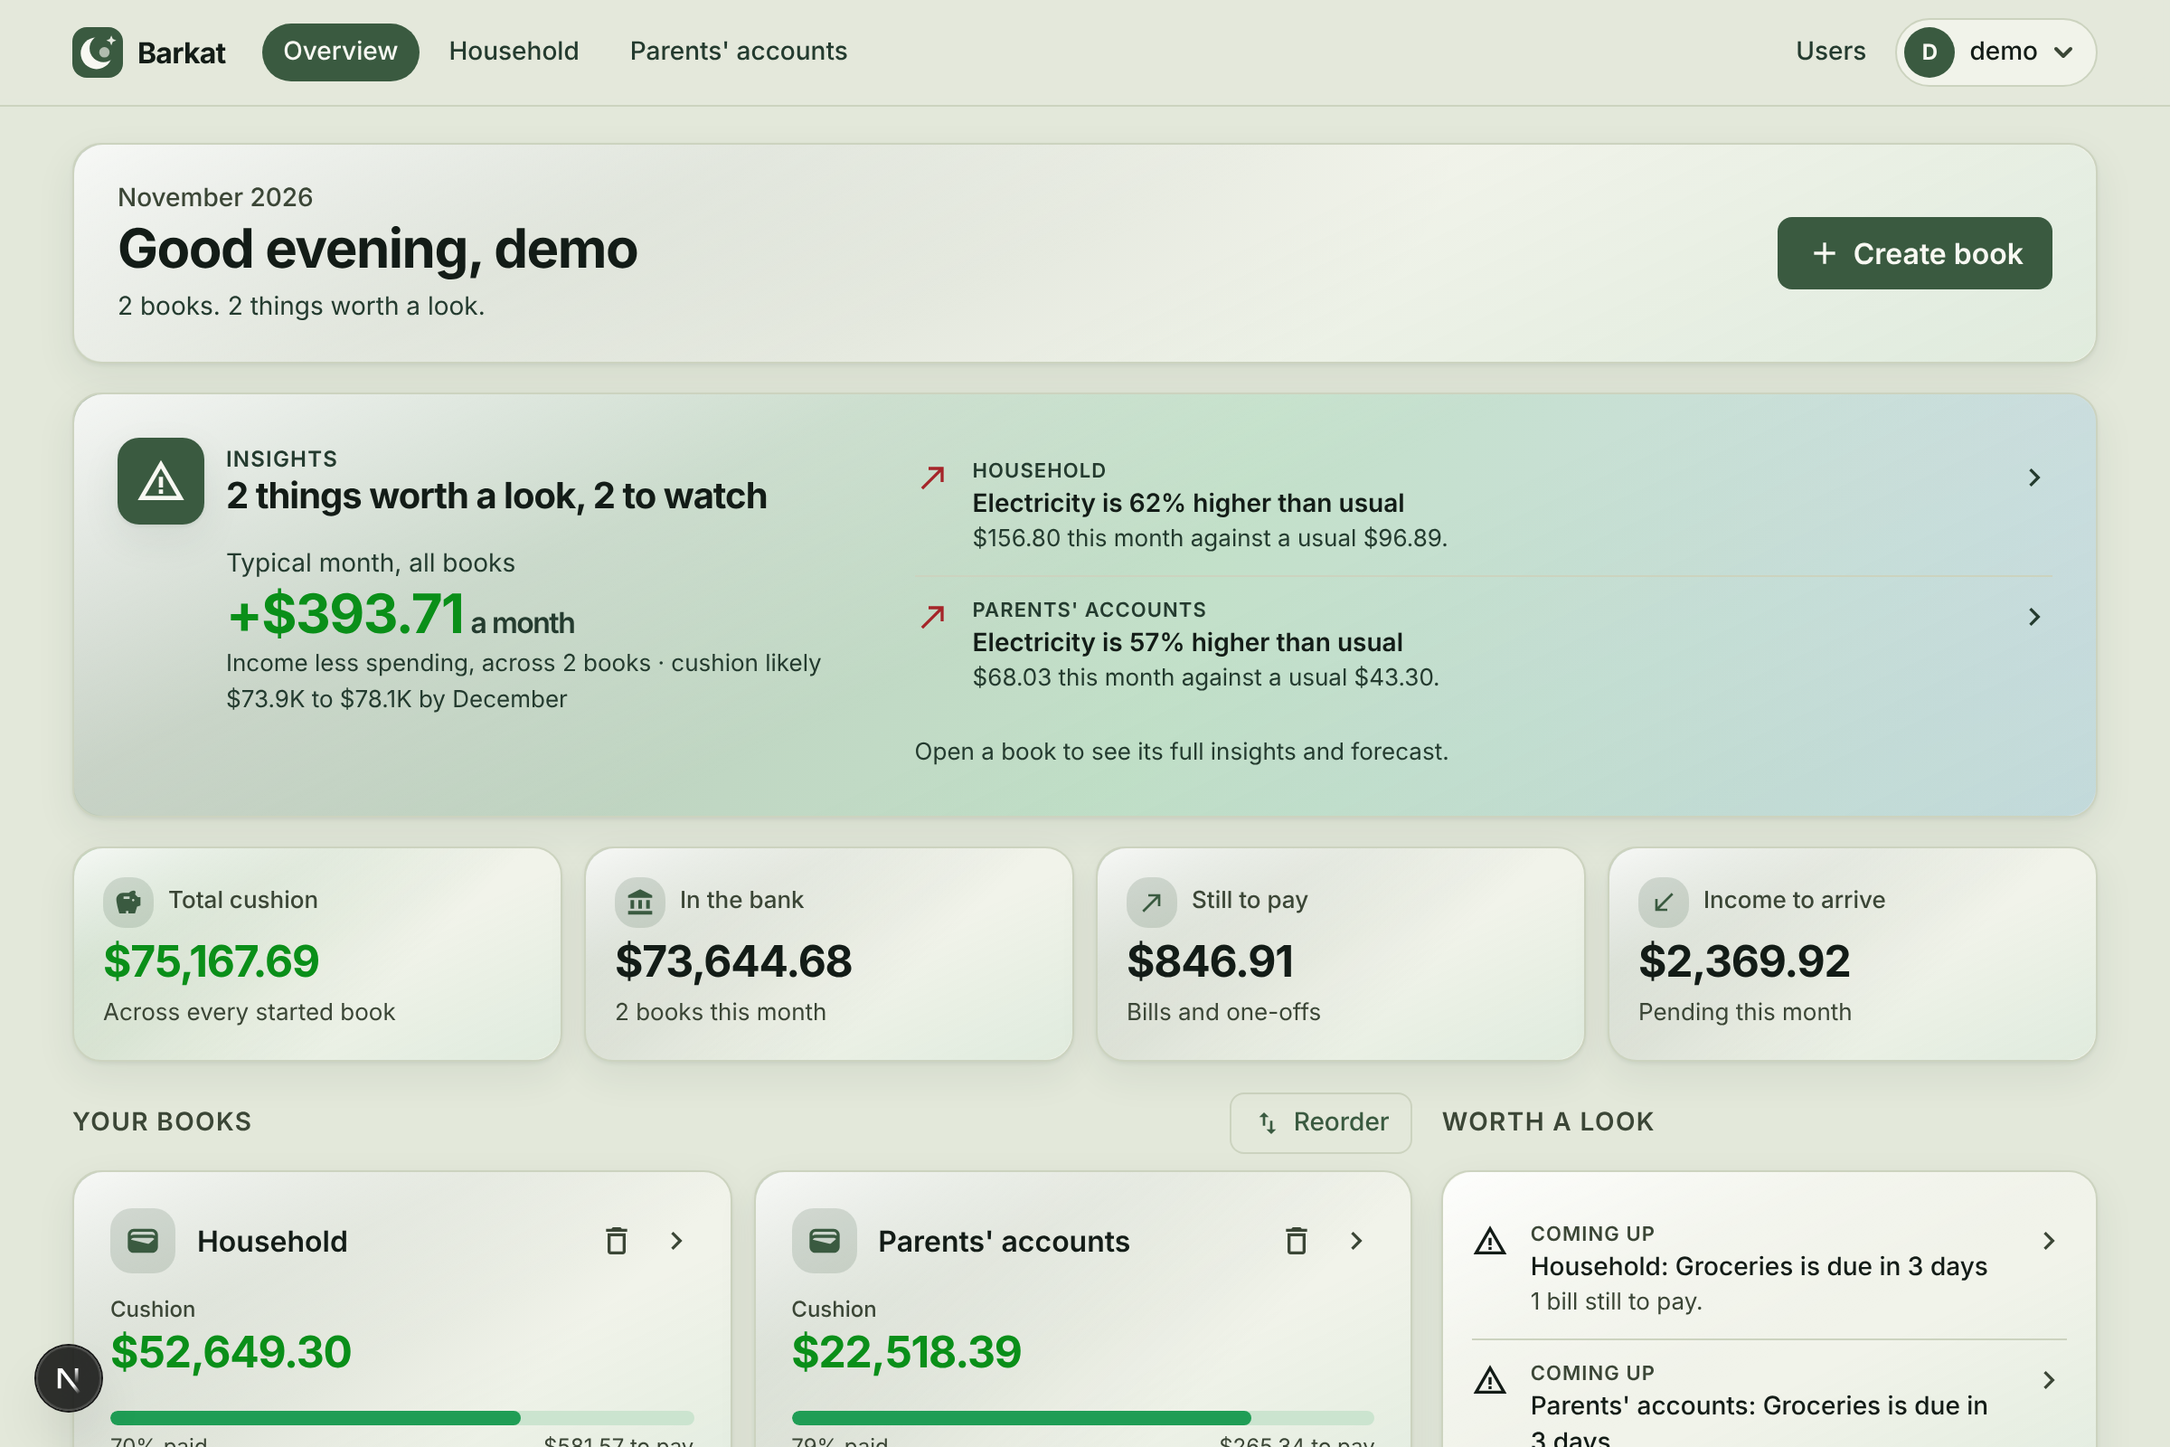
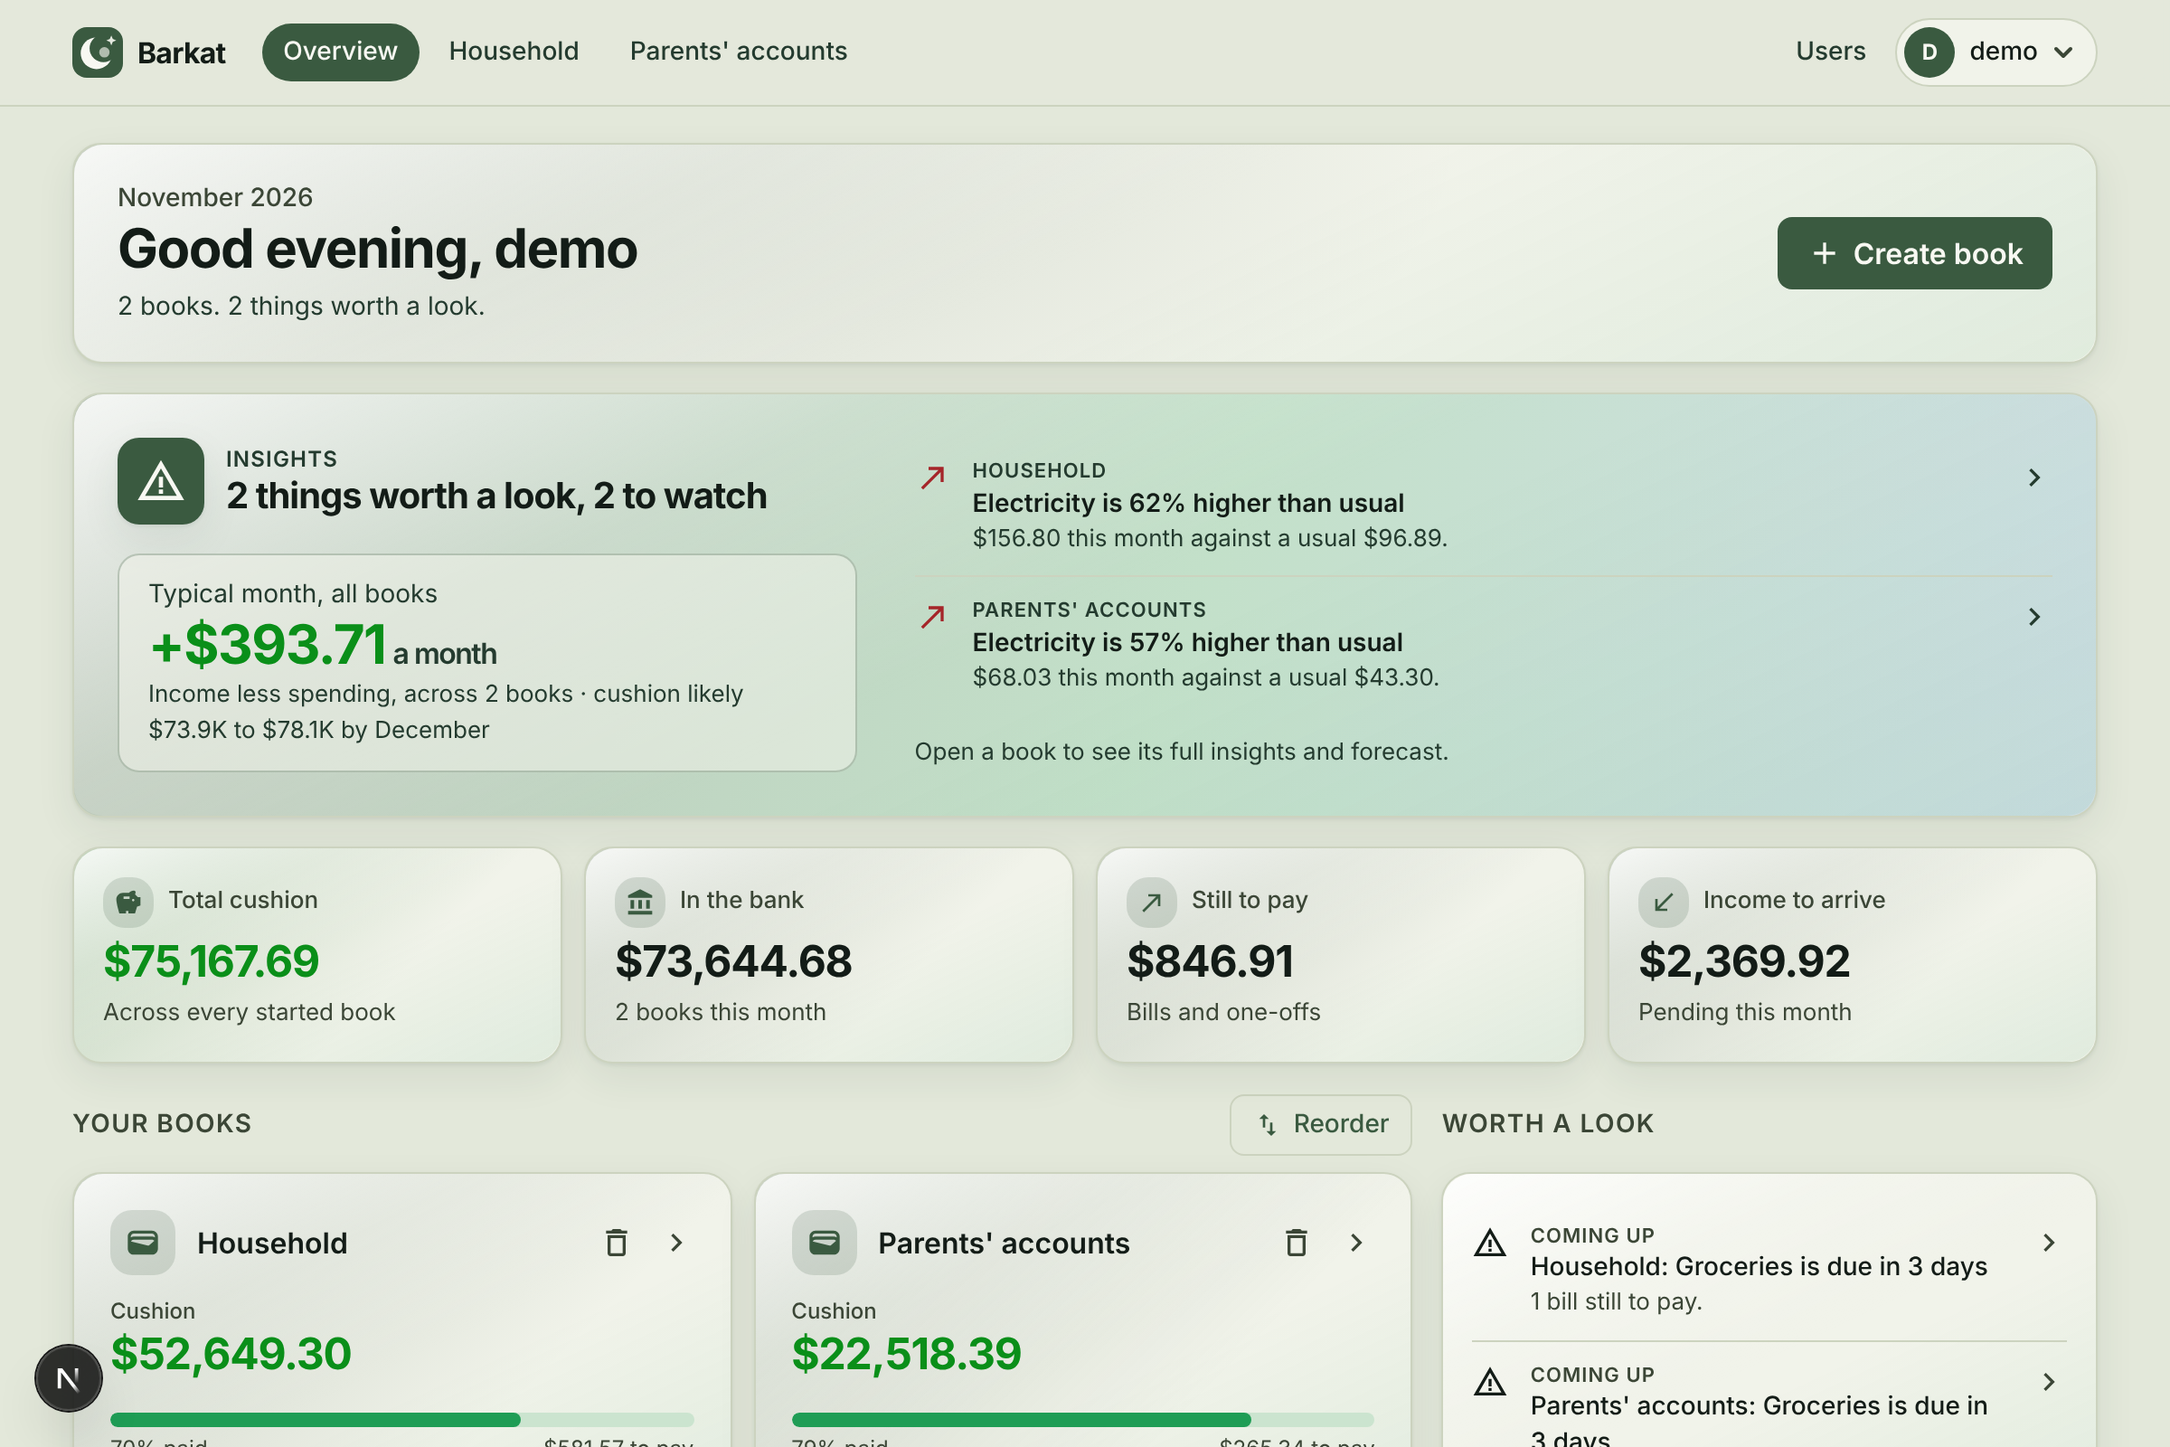
Insights back button returns to where it was opened from; anchor the Overview metric in a panel
Claude-Session: https://claude.ai/code/session_01BwwsQpepoFFDE9bGD7rFmF

diff --git a/web/src/app/(app)/page.tsx b/web/src/app/(app)/page.tsx
@@ -20,7 +20,7 @@ import { DeleteBook } from "@/components/DeleteBook";
 import { ReorderBooks } from "@/components/ReorderBooks";
 import { IconChip } from "@/components/IconChip";
 import { card } from "@/components/ui";
-import { insightMonths, insightReport, overviewInsights, type OverviewInsights } from "@/lib/budget/insights";
+import { insightMonths, insightReport, insightsLink, overviewInsights, type OverviewInsights } from "@/lib/budget/insights";
 import { formatCompact, formatMoney } from "@/lib/budget/money";
 import { currentYm, monthLabel } from "@/lib/budget/months";
 import { dueStatus } from "@/lib/budget/metrics";
@@ -276,7 +276,7 @@ function InsightsBanner({ insights }: { insights: OverviewInsights }) {
       aria-label="Insights"
       className={`${card} insight-pop grid gap-x-8 gap-y-5 !border-accent/50 bg-[linear-gradient(110deg,color-mix(in_srgb,var(--accent)_30%,var(--surface)),color-mix(in_srgb,var(--fill)_22%,var(--surface))_55%,color-mix(in_srgb,var(--series-1)_16%,var(--surface)))] px-6 py-6 shadow-[0_0.75rem_2rem_color-mix(in_srgb,var(--accent)_28%,transparent)] lg:grid-cols-5`}
     >
-      <div className="flex flex-col gap-3 lg:col-span-2">
+      <div className="flex flex-col gap-4 lg:col-span-2">
         <div className="flex items-center gap-3">
           <span className="grid h-12 w-12 shrink-0 place-items-center rounded-xl bg-accent text-accent-ink shadow-card" aria-hidden>
             {total > 0 ? <MdWarningAmber className="h-7 w-7" /> : <MdInsights className="h-7 w-7" />}
@@ -289,7 +289,7 @@ function InsightsBanner({ insights }: { insights: OverviewInsights }) {
           </div>
         </div>
         {net !== null && (
-          <div className="pl-[3.75rem]">
+          <div className="rounded-xl border border-[color-mix(in_srgb,var(--accent)_28%,transparent)] bg-[color-mix(in_srgb,var(--surface)_55%,transparent)] px-4 py-3">
             <p className="text-sm text-ink2">Typical month, all books</p>
             <p className={`text-3xl font-bold tracking-tight ${net >= 0 ? "text-good-bright" : "text-bad-bright"}`}>
               {net >= 0 ? "+" : "-"}
@@ -315,7 +315,7 @@ function InsightsBanner({ insights }: { insights: OverviewInsights }) {
             {top.map((t, i) => (
               <li key={i}>
                 <Link
-                  href={`/s/${t.spaceId}/insights`}
+                  href={insightsLink(t.spaceId, { page: "overview" })}
                   className="-mx-2 flex items-start gap-3 rounded-lg px-2 py-2.5 transition hover:bg-surface/60 focus-visible:outline focus-visible:outline-2 focus-visible:outline-accent"
                 >
                   <MdNorthEast className={`mt-0.5 h-5 w-5 shrink-0 ${t.insight.severity === "warn" ? "text-bad" : "text-ink2"}`} aria-hidden />

diff --git a/web/src/app/(app)/s/[spaceId]/[ym]/page.tsx b/web/src/app/(app)/s/[spaceId]/[ym]/page.tsx
@@ -33,7 +33,7 @@ import { trend } from "@/lib/budget/trend";
 import { BILL_STATUSES, INCOME_STATUSES } from "@/lib/budget/types";
 import { requireUser } from "@/lib/auth/session";
 import { getDb } from "@/lib/db";
-import { insightMonths, insightReport } from "@/lib/budget/insights";
+import { insightMonths, insightReport, insightsLink } from "@/lib/budget/insights";
 import { findMonthId, getSpace, listMonthRows, listMonthSizes, listSchedules, loadMonth, previousMonth } from "@/lib/store";
 
 export const dynamic = "force-dynamic";
@@ -221,7 +221,7 @@ export default async function MonthPage({ params }: { params: Promise<Params> })
     now,
   );
   // Only for the month the insights are about, so the banner never describes a different month than the one on screen.
-  const insightsBanner = report.latest === ym ? <InsightsBanner spaceId={spaceId} report={report} /> : null;
+  const insightsBanner = report.latest === ym ? <InsightsBanner spaceId={spaceId} ym={ym} report={report} /> : null;
   const positive = summary.cushion > 0;
 
   return (
@@ -793,7 +793,7 @@ function Total({ label, value }: { label: string; value: string }) {
   );
 }
 
-function InsightsBanner({ spaceId, report }: { spaceId: number; report: ReturnType<typeof insightReport> }) {
+function InsightsBanner({ spaceId, ym, report }: { spaceId: number; ym: string; report: ReturnType<typeof insightReport> }) {
   const warns = report.insights.filter((i) => i.severity === "warn").length;
   const n = report.insights.length;
   const top = report.insights[0];
@@ -816,7 +816,7 @@ function InsightsBanner({ spaceId, report }: { spaceId: number; report: ReturnTy
           </p>
         </div>
       </div>
-      <Link href={`/s/${spaceId}/insights`} className={`${btn} gap-1.5 whitespace-nowrap`}>
+      <Link href={insightsLink(spaceId, { page: "month", ym })} className={`${btn} gap-1.5 whitespace-nowrap`}>
         See insights
         <MdChevronRight className="h-4 w-4" aria-hidden />
       </Link>

diff --git a/web/src/lib/budget/insights.ts b/web/src/lib/budget/insights.ts
@@ -1,4 +1,4 @@
-import { shiftYm } from "./months";
+import { isYm, monthLabel, shiftYm } from "./months";
 import { isAdjustment, yearInputs } from "./year";
 import type { MonthInput } from "./trend";
 import type { Cents } from "./types";
@@ -242,4 +242,23 @@ export function overviewInsights(books: BookInsights[], limit = 4): OverviewInsi
       ? { ym, expected: same.reduce((a, f) => a + f.expected, 0), low: same.reduce((a, f) => a + f.low, 0), high: same.reduce((a, f) => a + f.high, 0) }
       : null,
   };
+}
+
+/** Where the Insights page was opened from, carried in the link so "back" returns there. */
+export function insightsLink(spaceId: number, from: { page: "overview" } | { page: "month"; ym: string } | { page: "year"; year: number }): string {
+  const base = `/s/${spaceId}/insights`;
+  if (from.page === "overview") return `${base}?from=overview`;
+  if (from.page === "month") return `${base}?from=month&ym=${from.ym}`;
+  return `${base}?from=year&year=${from.year}`;
+}
+
+/**
+ * The back button's target: the page the link came from (Overview, a month or a year), else the book's
+ * latest month. Anything in the query that does not parse is ignored, so a made-up link falls back.
+ */
+export function insightsBack(spaceId: number, query: { from?: string; ym?: string; year?: string }, fallbackYm: string): { href: string; label: string } {
+  if (query.from === "overview") return { href: "/", label: "Back to Overview" };
+  if (query.from === "month" && query.ym && isYm(query.ym)) return { href: `/s/${spaceId}/${query.ym}`, label: `Back to ${monthLabel(query.ym)}` };
+  if (query.from === "year" && query.year && /^\d{4}$/.test(query.year)) return { href: `/s/${spaceId}/year/${query.year}`, label: `Back to ${query.year}` };
+  return { href: `/s/${spaceId}/${fallbackYm}`, label: `Back to ${monthLabel(fallbackYm)}` };
 }

diff --git a/web/src/app/(app)/s/[spaceId]/insights/page.tsx b/web/src/app/(app)/s/[spaceId]/insights/page.tsx
@@ -5,7 +5,7 @@ import { Collapsible } from "@/components/Collapsible";
 import { IconChip } from "@/components/IconChip";
 import { Tile } from "@/components/charts/Charts";
 import { card } from "@/components/ui";
-import { insightMonths, insightReport, MIN_FORECAST } from "@/lib/budget/insights";
+import { insightMonths, insightReport, insightsBack, MIN_FORECAST } from "@/lib/budget/insights";
 import { formatMoney } from "@/lib/budget/money";
 import { currentYm, monthLabel } from "@/lib/budget/months";
 import { requireUser } from "@/lib/auth/session";
@@ -14,7 +14,7 @@ import { getSpace, listMonthRows, listMonthSizes } from "@/lib/store";
 
 export const dynamic = "force-dynamic";
 
-export default async function InsightsPage({ params }: { params: Promise<{ spaceId: string }> }) {
+export default async function InsightsPage({ params, searchParams }: { params: Promise<{ spaceId: string }>; searchParams: Promise<{ from?: string; ym?: string; year?: string }> }) {
   await requireUser();
   const spaceId = Number((await params).spaceId);
   const db = getDb();
@@ -31,11 +31,11 @@ export default async function InsightsPage({ params }: { params: Promise<{ space
   const report = insightReport(months, now);
   const net = report.averageNet;
 
-  const back = report.latest ?? now;
+  const back = insightsBack(spaceId, await searchParams, report.latest ?? now);
 
   return (
     <>
-      <BackButton href={`/s/${spaceId}/${back}`}>Back to {monthLabel(back)}</BackButton>
+      <BackButton href={back.href}>{back.label}</BackButton>
       <div className="z-[15] md:sticky md:top-[var(--nav-h,3.5rem)] -mx-4 mb-4 flex flex-wrap items-end justify-between gap-3 border-b border-line bg-page px-4 py-2.5">
         <div>
           <p className="text-sm font-medium text-muted">{space.name}</p>

diff --git a/web/__tests__/lib/budget/insights.test.ts b/web/__tests__/lib/budget/insights.test.ts
@@ -1,5 +1,5 @@
 import { describe, expect, it } from "vitest";
-import { findInsights, forecast, overviewInsights, insightMonths, insightReport, type InsightMonth } from "@/lib/budget/insights";
+import { findInsights, forecast, overviewInsights, insightsBack, insightsLink, insightMonths, insightReport, type InsightMonth } from "@/lib/budget/insights";
 import type { MonthInput } from "@/lib/budget/trend";
 
 const c = (d: number) => d * 100;
@@ -84,5 +84,21 @@ describe("overviewInsights", () => {
   });
   it("is empty with no usable books", () => {
     expect(overviewInsights([])).toEqual({ books: 0, total: 0, warns: 0, top: [], net: null, next: null });
+  });
+});
+
+describe("insights back link", () => {
+  it("returns to the page the link came from", () => {
+    expect(insightsLink(3, { page: "overview" })).toBe("/s/3/insights?from=overview");
+    expect(insightsBack(3, { from: "overview" }, "2026-11")).toEqual({ href: "/", label: "Back to Overview" });
+    expect(insightsBack(3, { from: "month", ym: "2026-09" }, "2026-11")).toEqual({ href: "/s/3/2026-09", label: "Back to September 2026" });
+    expect(insightsBack(3, { from: "year", year: "2025" }, "2026-11")).toEqual({ href: "/s/3/year/2025", label: "Back to 2025" });
+  });
+  it("falls back to the latest month with no or a bad origin", () => {
+    const month = { href: "/s/3/2026-11", label: "Back to November 2026" };
+    expect(insightsBack(3, {}, "2026-11")).toEqual(month);
+    expect(insightsBack(3, { from: "month", ym: "nope" }, "2026-11")).toEqual(month);
+    expect(insightsBack(3, { from: "year", year: "20x5" }, "2026-11")).toEqual(month);
+    expect(insightsBack(3, { from: "elsewhere" }, "2026-11")).toEqual(month);
   });
 });

diff --git a/web/src/app/(app)/s/[spaceId]/year/[year]/page.tsx b/web/src/app/(app)/s/[spaceId]/year/[year]/page.tsx
@@ -7,6 +7,7 @@ import { Tile } from "@/components/charts/Charts";
 import { YearChart } from "@/components/charts/YearChart";
 import { YearPicker } from "@/components/YearPicker";
 import { card } from "@/components/ui";
+import { insightsLink } from "@/lib/budget/insights";
 import { formatMoney } from "@/lib/budget/money";
 import { currentYm, monthLabel } from "@/lib/budget/months";
 import { isYear, yearInputs, yearView, yearsWithData, type YearMonth } from "@/lib/budget/year";
@@ -71,7 +72,7 @@ export default async function YearPage({ params }: { params: Promise<{ spaceId: 
             <MdEvent className="h-5 w-5" aria-hidden />
             {monthLabel(monthNow)}
           </Link>
-          <Link href={`/s/${spaceId}/insights`} className={`${navBtn} px-3 text-sm font-medium`}>
+          <Link href={insightsLink(spaceId, { page: "year", year })} className={`${navBtn} px-3 text-sm font-medium`}>
             Insights
           </Link>
           <Link href={`/s/${spaceId}/year/${year - 1}`} aria-label={`Previous year, ${year - 1}`} className={navBtn}>

diff --git a/CHANGELOG.md b/CHANGELOG.md
@@ -5,7 +5,7 @@ Follows [Semantic Versioning](https://semver.org/). Before 1.0.0 a minor bump ma
 ## [Unreleased]
 
 ### Added
-- Insights at `/s/<book>/insights`, with a gradient banner that rises in at the top of the month view (headline, count of things to watch, "See insights" button), a larger banner on the Overview page that rolls up every book (count of findings, the top ones each linking to their book's insights, and the typical monthly change across books with the likely cushion range), and a link in the year header: found from the book's own history with plain statistics (no model, nothing leaves the server). It shows the typical month (income less spending over the last 6 months), a 3-month cushion forecast with a low-to-high range, and flags for the latest month: a bill far from its usual amount, a regular bill that is missing, a new bill, a spending spike, and a cushion forecast to go negative. Needs 3 months with data. Adjustment entries and items set to None are left out.
+- Insights at `/s/<book>/insights`, with a gradient banner that rises in at the top of the month view (headline, count of things to watch, "See insights" button), a larger banner on the Overview page that rolls up every book (count of findings, the top ones each linking to their book's insights, and the typical monthly change across books with the likely cushion range), and a link in the year header. The page's back button returns to where it was opened from (Overview, a month or a year): found from the book's own history with plain statistics (no model, nothing leaves the server). It shows the typical month (income less spending over the last 6 months), a 3-month cushion forecast with a low-to-high range, and flags for the latest month: a bill far from its usual amount, a regular bill that is missing, a new bill, a spending spike, and a cushion forecast to go negative. Needs 3 months with data. Adjustment entries and items set to None are left out.
 - Clear future months: a month started ahead (by a schedule or copy-forward) offers "Clear <month>" in the month picker, so one can be deleted at a time. Only months after the current one can be cleared, since removing an earlier month would change the balances that carry forward. A dialog confirms first. To remove them all at once, the book's Import and export page has "Clear N future months", with a list of what goes. Admins only; the current and earlier months and the income schedules are untouched, and a cleared month can be started again.
 - Screenshots: nine screens in `docs/screenshots/` (overview, a month, accounts and bills, Manage accounts, the month picker, the year view, import and export, the light theme and a phone) shown in the README. All are taken from the made-up demo data.
 - Demo data: `npm run seed:demo` (in `web/`) writes made-up books to `web/data-demo/` with monthly history from January 2018 to the current month (about 170 months in two books: accounts, bills with yearly price rises, seasonal electricity, yearly zakat, trips, paychecks, a tax refund, one admin override and an income schedule). It never touches `web/data`, leaves an existing demo database alone unless `SEED_RESET=1`, and adds two fixed demo logins if missing (`demo`, admin, and `viewer`, read-only; password in the README), so the demo needs no setup screen.
